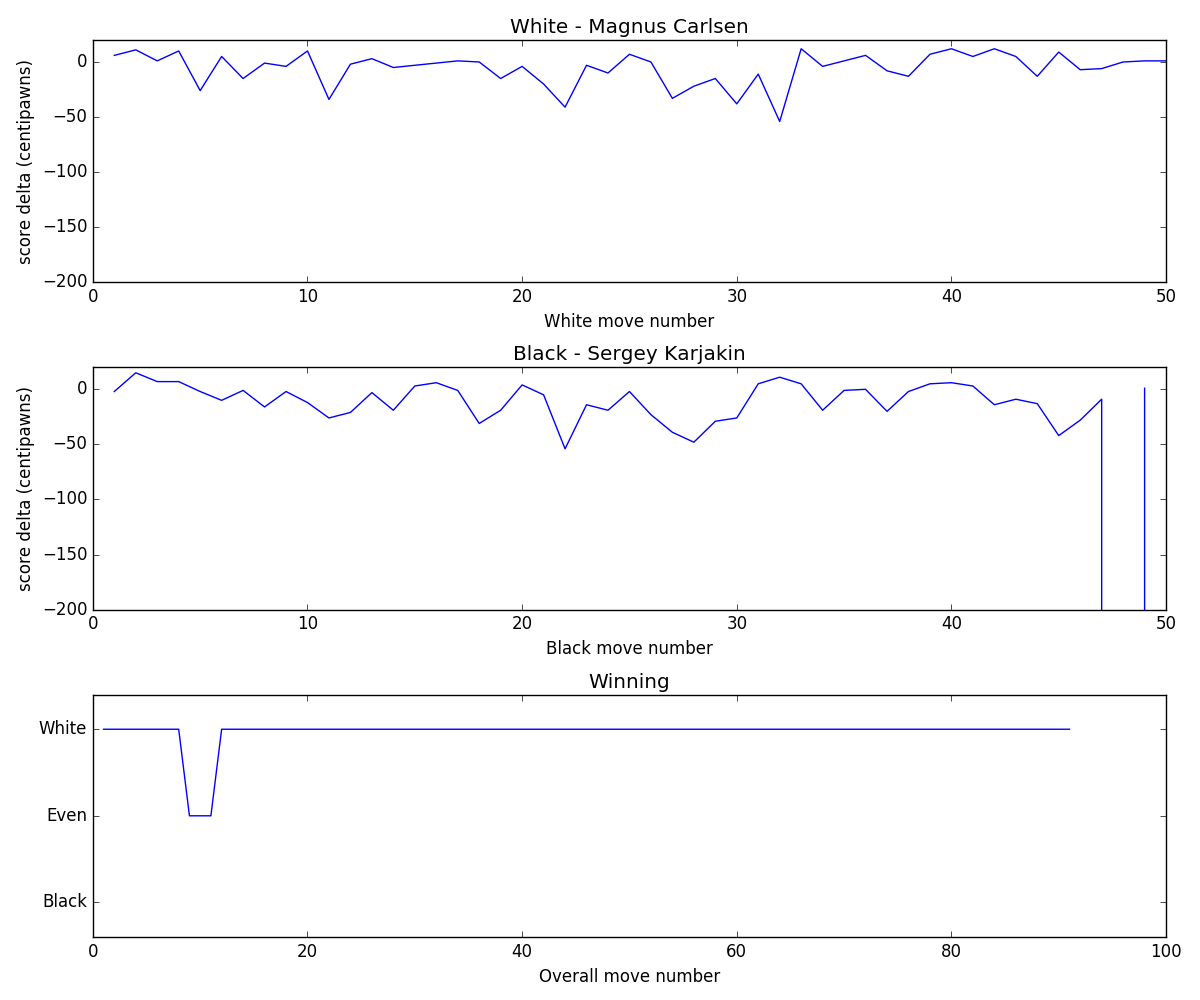
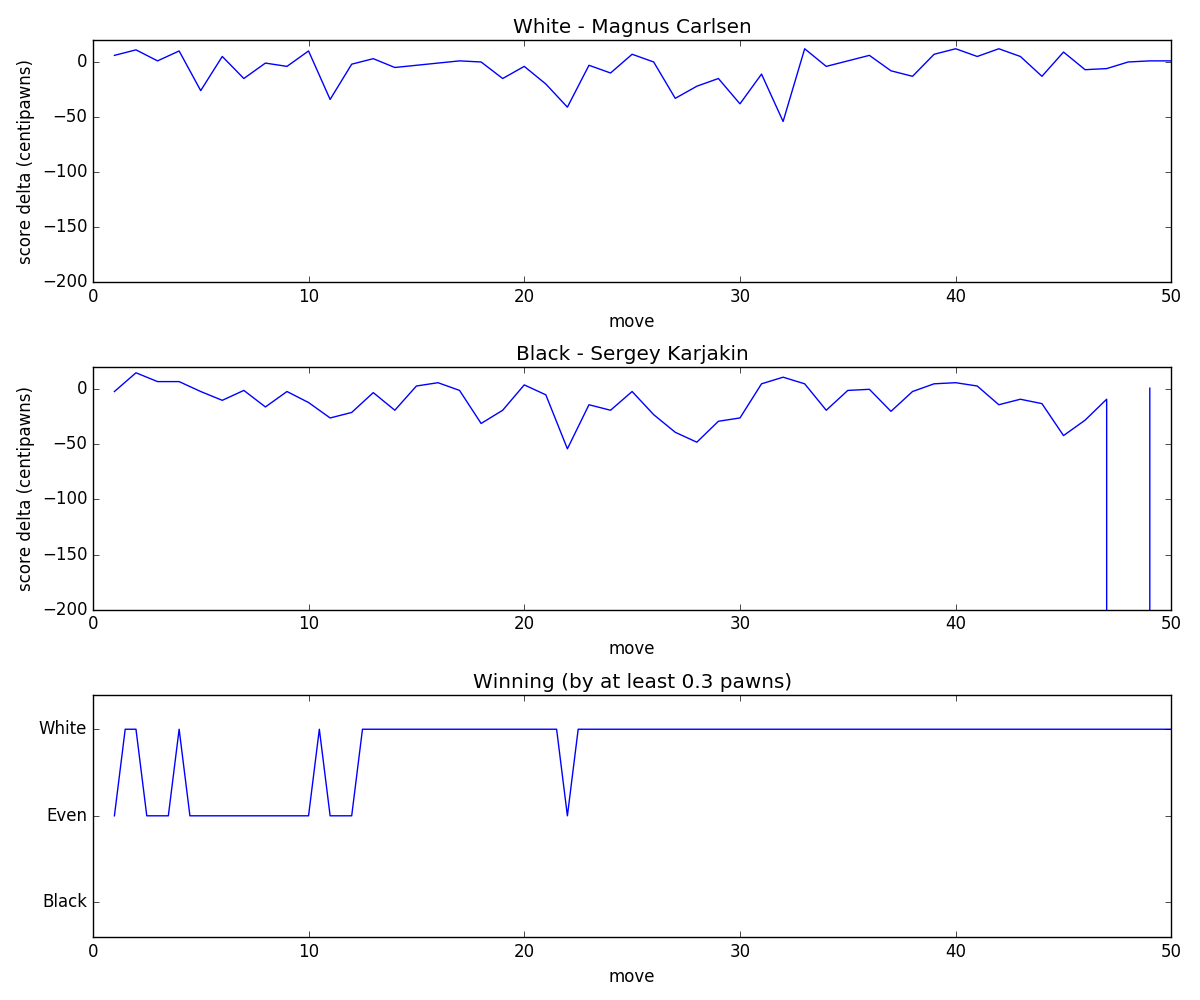
minor tweaks to the visualizations

diff --git a/analyze/analyze.py b/analyze/analyze.py
@@ -19,8 +19,8 @@ for root, dirs, filenames in os.walk(indir):
             
             white_move = 1
             black_move = 1
-            overall_move_num = 1
-        
+            overall_move_num = 1.0
+
             for move in analyzed_game:
                 
                 parsed_move = json.loads(move)
@@ -34,23 +34,26 @@ for root, dirs, filenames in os.walk(indir):
                     black.append([black_move, score_diff])
                     black_move += 1
 
-                threshold = 20
+                threshold = 30
 
                 if parsed_move["played-move-score"] == 0:
                     result.append([overall_move_num, 0.5])
-                    overall_move_num += 1
+                    overall_move_num += 0.5
                 elif parsed_move["played-move-score"] > threshold and parsed_move["mover"] == parsed_move["white"]:
                     result.append([overall_move_num, 1])
-                    overall_move_num += 1
+                    overall_move_num += 0.5
                 elif parsed_move["played-move-score"] < -threshold and parsed_move["mover"] == parsed_move["white"]:
                     result.append([overall_move_num, 0])
-                    overall_move_num += 1
+                    overall_move_num += 0.5
                 elif parsed_move["played-move-score"] > threshold and parsed_move["mover"] == parsed_move["black"]:
                     result.append([overall_move_num, 0])
-                    overall_move_num += 1
+                    overall_move_num += 0.5
                 elif parsed_move["played-move-score"] < -threshold and parsed_move["mover"] == parsed_move["black"]:
                     result.append([overall_move_num, 1])
-                    overall_move_num += 1
+                    overall_move_num += 0.5
+                else:
+                    result.append([overall_move_num, 0.5])
+                    overall_move_num += 0.5
 
         # Plot the results.
         whiteDF = pd.DataFrame(white, columns=["move", "score_diff"])
@@ -61,19 +64,19 @@ for root, dirs, filenames in os.walk(indir):
 
         axarr[0].plot(whiteDF["move"], whiteDF["score_diff"])
         axarr[0].set_title('White - ' + parsed_move["white"])
-        axarr[0].set_xlabel("White move number")
+        axarr[0].set_xlabel("move")
         axarr[0].set_ylabel("score delta (centipawns)")
         axarr[0].set_ylim([-200, 20])
 
         axarr[1].plot(blackDF["move"], blackDF["score_diff"])
         axarr[1].set_title('Black - ' + parsed_move["black"])
-        axarr[1].set_xlabel("Black move number")
+        axarr[1].set_xlabel("move")
         axarr[1].set_ylabel("score delta (centipawns)")
         axarr[1].set_ylim([-200, 20])
 
         axarr[2].plot(resultDF["move"], resultDF["result"])
-        axarr[2].set_title('Winning')
-        axarr[2].set_xlabel("Overall move number")
+        axarr[2].set_title('Winning (by at least 0.3 pawns)')
+        axarr[2].set_xlabel("move")
         axarr[2].set_ylim([-0.2, 1.2])
         axarr[2].set_yticks([0, 0.5, 1])
         axarr[2].set_yticklabels(["Black", "Even", "White"])

diff --git a/aggregate/aggregate.py b/aggregate/aggregate.py
@@ -48,7 +48,7 @@ resultsDF[player2] = resultsDF['game'].map(lambda x: results2[x])
 resultsDF.set_index('game', inplace=True)
 
 ax = resultsDF.plot(kind='bar', rot=0)
-ax.set_ylabel("0.5+ pawn blunders")
+ax.set_ylabel("1+ pawn blunders")
 ax.set_xlabel("game (* indicates a rapid game)")
 ax.set_xticks(range(0, last_game))
 ax.set_xticklabels(['1', '2', '3', '4', '5', '6', '7', '8', '9', '10', '11', 
